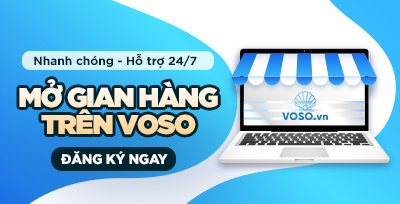
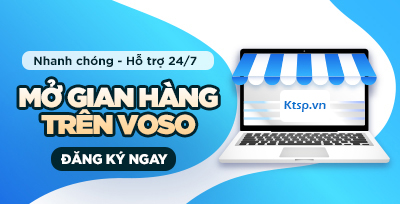
Update code

Changed region(s): [[0.69, 0.4412, 0.84, 0.5882]]

diff --git a/projects/ktsp/index.html b/projects/ktsp/index.html
@@ -315,12 +315,12 @@
                   </div>
                   <!-- Hết menu cấp 1 -->
                 </li>
-                <li><a href="#">CỬA HÀNG CHÍNH HÃNG</a></li>
-                <li><a href="#">SẢN PHẨM OCOP</a></li>
-                <li><a href="#">VÉ MÁY BAY</a></li>
-                <li><a href="#">ĐẶC SẢN VÙNG MIỀN</a></li>
-                <li><a href="#">BÁCH HOÁ ONLINE</a></li>
-                <li><a href="#">GIAN HÀNG VIỆT</a></li>
+                <li><a href="#">HÀNG TIÊU DÙNG</a></li>
+                <li><a href="#">DƯỢC – MỸ PHẨM</a></li>
+                <li><a href="#">NÔNG SẢN</a></li>
+                <li><a href="#">THỰC PHẨM CHẾ BIẾN</a></li>
+                <li><a href="#">CƠ KHÍ – XÂY DỰNG</a></li>
+                <li><a href="#">ĐIỆN – ĐIỆN TỬ</a></li>
               </ul>
               <!-- Hết menu ngang -->
             </div>
@@ -1950,9 +1950,9 @@
         <div class="col-md-9">
           <div class="copyright__info">
             <p>
-              Mã số doanh nghiệp: 0104093672 do Sở Kế hoạch và Đầu tư TP. Hà Nội cấp lần đầu ngày 20/09/2018.
-              <br /> Trụ sở chính: Số 1, Giang Văn Minh, Phường Kim Mã, Quận Ba Đình, Hà Nội, Việt Nam.
-              <br /> © 2019 Bản quyền thuộc sở hữu của Tổng Công Ty Cổ Phần Bưu Chính Viettel
+              Mã số doanh nghiệp: 0107603000 do Sở Kế hoạch và Đầu tư TP. Hà Nội cấp lần đầu ngày 19/10/2016.
+              <br /> Trụ sở chính: Số 30 Trung Liệt, Quận Đống Đa, Hà Nội, Việt Nam.
+              <br /> © 2019 Bản quyền thuộc Công ty cổ phần công nghệ và khoa học Bảo An
             </p>
           </div>
         </div>

diff --git a/projects/ktsp/assets/css/style.css b/projects/ktsp/assets/css/style.css
@@ -254,6 +254,7 @@ a:hover {
   text-align: right;
   margin-right: 6px;
   width: 14%;
+  display: none!important;
 }
 
 .header__cart a {
@@ -1951,6 +1952,7 @@ a:hover {
 .product-detail__button {
   display: flex;
   align-items: center;
+  display: none!important;
 }
 
 .add-to-cart {
@@ -2025,6 +2027,7 @@ a:hover {
   display: -ms-flexbox;
   display: flex;
   justify-content: space-between;
+  display: none!important;
 }
 
 .product-detail__shop-info__left {

diff --git a/projects/ktsp/chi-tiet-san-pham.html b/projects/ktsp/chi-tiet-san-pham.html
@@ -128,7 +128,7 @@
               <!-- List Desc -->
               <div class="product-detail__list-desc">
                 <ul>
-                  <li><i class="fa fa-check-square"></i> Giao hàng nhanh cùng Viettelpost</li>
+                  <li><i class="fa fa-check-square"></i> Giao hàng nhanh cùng J&T</li>
                   <li><i class="fa fa-check-square"></i> Trả hàng 2-3 ngày</li>
                 </ul>
               </div>
